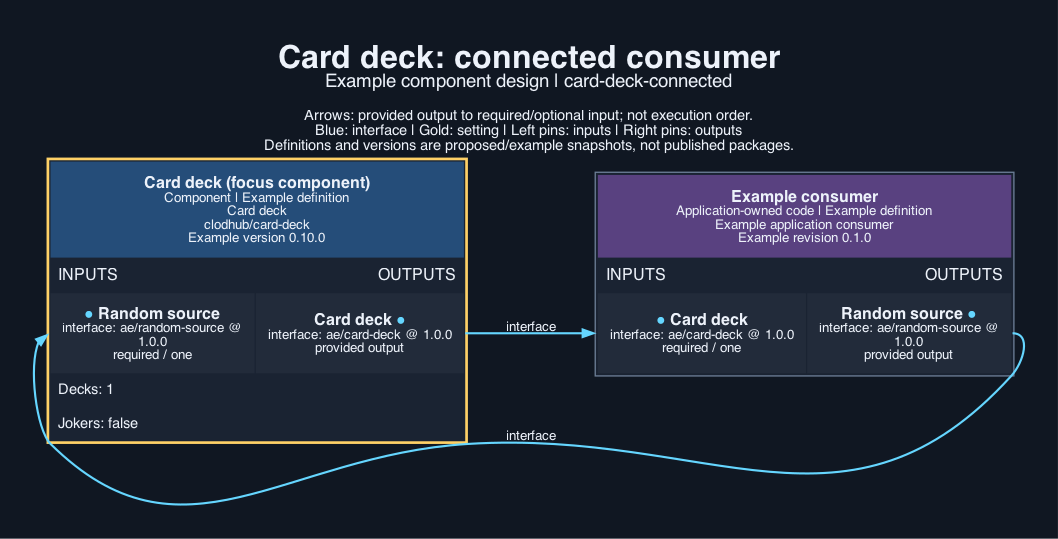
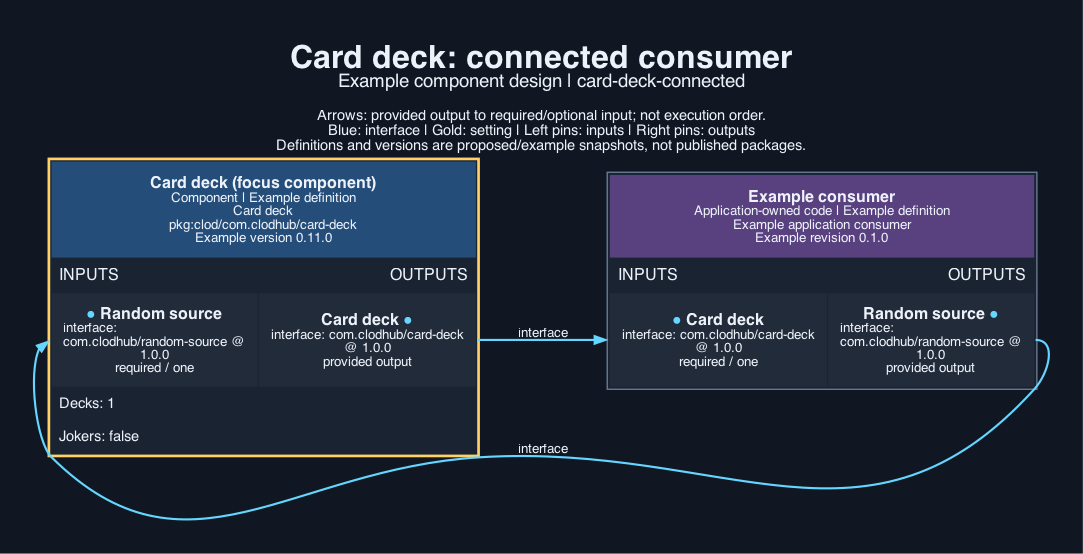
card-deck 0.11.0: package URL names, clod, com.clodhub interface types and Kotlin packages; setting defaults as JSON values

diff --git a/implementation/android/src/main/java/com/clodhub/deck/CardCode.kt b/implementation/android/src/main/java/com/clodhub/deck/CardCode.kt
@@ -1,4 +1,4 @@
-package ae.deck
+package com.clodhub.deck
 
 // Card facts for a client that draws cards. Data only; faces and pip layouts belong to card-graphics.
 // A code is two characters: rank 2-9, T, J, Q, K, A then suit c, d, h, s. Jokers are "*r" and "*b".

diff --git a/tests/android/Main.kt b/tests/android/Main.kt
@@ -1,4 +1,4 @@
-import ae.deck.CardCode
+import com.clodhub.deck.CardCode
 import java.io.File
 
 // Minimal reader for the flat fixture: rows are lines of the form ["2c", true, 0, 0, false, null, "2", 9827].

diff --git a/SOURCE.md b/SOURCE.md
@@ -14,11 +14,11 @@ Reference revision: `19905b75dbea89fbfd424d67fe26c81aaed0e018`. Extraction sourc
 - `implementation/apple/Sources/CardCodes.swift` <- `ios/OurPoker/Sources/Cards.swift:3-10` (`suitGlyph`), `Cards.swift:12-15` (`rankText`), `Cards.swift:17-24` (`courtName`), `Cards.swift:71-72` and `Cards.swift:89` (code split into rank and suit, red test).
   - Kept: glyphs, court names, red rule. Generalised: the three private helpers and the parse become one public `CardCode` struct with a failable initialiser; the localised lookup `L("rank_...")` becomes an injected dictionary; jokers and `rankIndex`/`suitIndex` added.
   - Left behind: SwiftUI drawing, pip layout, card theme environment key (`card-graphics`).
-- `implementation/android/src/main/java/ae/deck/CardCode.kt` <- `android/app/src/main/java/app/ourapps/ourpoker/ui/Cards.kt:53-55` (`suitGlyph`), `Cards.kt:57-63` (`rankText`), `Cards.kt:65-67` (`courtName`), `Cards.kt:116-119` (code split, red test).
-  - Same generalisation as Apple; package `ae.deck`. Not compiled here (no kotlinc).
+- `implementation/android/src/main/java/com/clodhub/deck/CardCode.kt` <- `android/app/src/main/java/app/ourapps/ourpoker/ui/Cards.kt:53-55` (`suitGlyph`), `Cards.kt:57-63` (`rankText`), `Cards.kt:65-67` (`courtName`), `Cards.kt:116-119` (code split, red test).
+  - Same generalisation as Apple; package `com.clodhub.deck`. Not compiled here (no kotlinc).
   - Left behind: Compose drawing, colours, pip layout (`card-graphics`).
 - `tests/fixtures/cards.json`: new, shared by the web, Apple and Android tests (15 rows of codes, valid or not, with expected indexes, colour, court name, label and glyph code point).
 - `tests/web.test.ts`, `tests/apple/main.swift`, `tests/android/Main.kt`, `tests/native.py`: new. `native.py` follows `tests/native.py` in `clodhub/store-update`.
 - `cardCodes` (`generated-platform`): the `CardCodes` object poker-hand-ranking takes. `authoring/integration.test.ts`: new.
 - `examples/consumer.ts`: new; a hold'em style deal using only this component and an injected shuffler.
-- `interfaces/required-random-source.json`: a byte copy of fair-shuffle's `ae/random-source` document; card-deck calls only `RandomSource.shuffle` (the `Shuffler` schema of `interfaces/card-deck.json`).
+- `interfaces/required-random-source.json`: a byte copy of fair-shuffle's `com.clodhub/random-source` document; card-deck calls only `RandomSource.shuffle` (the `Shuffler` schema of `interfaces/card-deck.json`).

diff --git a/CONTRACT.md b/CONTRACT.md
@@ -9,12 +9,12 @@ Facilities: `card-deck` (Create, shuffle, deal and burn cards; card codes, colou
 The installer collects two settings. `decks` is how many 52-card packs to combine (whole number, 1 to 8; default 1). `jokers` adds two jokers per pack when true (default false).
 
 - `decks` (integer; optional; default `1`)
-- `jokers` (boolean; optional; default `False`)
+- `jokers` (boolean; optional; default `false`)
 
 ## Artefacts and dependencies
 `component.json` maps every `implementation/` source into `components/card-deck/`:
 
-- `implementation/android/src/main/java/ae/deck/CardCode.kt` -> `components/card-deck/android/src/main/java/ae/deck/CardCode.kt`
+- `implementation/android/src/main/java/com/clodhub/deck/CardCode.kt` -> `components/card-deck/android/src/main/java/com/clodhub/deck/CardCode.kt`
 - `implementation/apple/Sources/CardCodes.swift` -> `components/card-deck/apple/Sources/CardCodes.swift`
 - `implementation/server/deck.ts` -> `components/card-deck/server/deck.ts`
 - `implementation/web/cards.ts` -> `components/card-deck/web/cards.ts`
@@ -23,10 +23,10 @@ Dependencies: none.
 `tools.lock.json` pins verification tools: node 26.5, python3 3.12, swiftc 6.4, kotlinc 2.2, java 26.0. Licence: `Apache-2.0` (`LICENCE`, `NOTICE`).
 
 ## Provided interfaces
-- `interfaces/card-deck.json` defines `card-deck` (ae/card-deck) version 1.0.0: an OpenRPC 1.3.2 document, one method per function (a member of a created object is `<Type>.<member>`), with parameter, result and data types as JSON Schema 2020-12 (`components.schemas`) and thrown errors under `errors`.
+- `interfaces/card-deck.json` defines `card-deck` (com.clodhub/card-deck) version 1.0.0: an OpenRPC 1.3.2 document, one method per function (a member of a created object is `<Type>.<member>`), with parameter, result and data types as JSON Schema 2020-12 (`components.schemas`) and thrown errors under `errors`.
 
 ## Required interfaces
-- `random-source` (ae/random-source) version 1.0.0, supplied by the recipe or application.
+- `random-source` (com.clodhub/random-source) version 1.0.0, supplied by the recipe or application.
 
 `interfaces/required-random-source.json` is a byte copy of the providing component's document.
 

diff --git a/INSTRUCTIONS.md b/INSTRUCTIONS.md
@@ -3,12 +3,12 @@
 ## For the agent
 Select this component for any game that deals playing cards. Set `decks` and `jokers` from the recipe's answers (hold'em: 1 deck, no jokers). Connect a `random-source` (fair-shuffle) to its required `random-source` port. Include the web, Apple and Android client files only when the matching client targets are selected.
 
-- Select package `clodhub/card-deck` version `0.10.0`.
+- Select package `pkg:clod/com.clodhub/card-deck` version `0.11.0`.
 - Settings to configure:
   - `decks` (integer; optional; default `1`)
-  - `jokers` (boolean; optional; default `False`)
-- Connect the provided `card-deck` (ae/card-deck 1.0.0) to the consumer that needs it.
-- Supply `random-source` (ae/random-source 1.0.0) from the component that provides it.
+  - `jokers` (boolean; optional; default `false`)
+- Connect the provided `card-deck` (com.clodhub/card-deck 1.0.0) to the consumer that needs it.
+- Supply `random-source` (com.clodhub/random-source 1.0.0) from the component that provides it.
 - No accounts or keys are needed.
 
 ## For the developer
@@ -20,4 +20,4 @@ From the component directory:
 - `node --test tests/web.test.ts` (web, required-local; tools: node 26.5)
 - `python3 tests/native.py apple` (apple, platform; tools: python3 3.12, swiftc 6.4)
 - `python3 tests/native.py android` (android, platform; tools: python3 3.12, kotlinc 2.2, java 26.0)
-- `python3 -m aepm review <digest> --store STORE --policy POLICY --trusted --allow-network` checks an archive fetched with `python3 -m aepm fetch clodhub/card-deck@VERSION --store STORE --from https://clodhub.com` and runs its suites.
+- `python3 -m clod review <digest> --store STORE --policy POLICY --trusted --allow-network` checks an archive fetched with `python3 -m clod fetch card-deck@VERSION --store STORE --from https://clodhub.com` and runs its suites.

diff --git a/visual/output/description.md b/visual/output/description.md
@@ -1,3 +1,3 @@
 # Card deck
 
-The card-deck component at version 0.10.0 provides ae/card-deck version 1.0.0 to an illustrative application consumer, which in turn supplies ae/random-source version 1.0.0. The 2 arrows each run from a named output to a required input of the same type and version. Setting values shown are placeholders and secrets appear only as references.
+The card-deck component at version 0.11.0 provides com.clodhub/card-deck version 1.0.0 to an illustrative application consumer, which in turn supplies com.clodhub/random-source version 1.0.0. The 2 arrows each run from a named output to a required input of the same type and version. Setting values shown are placeholders and secrets appear only as references.

diff --git a/.opencode/knowledge/00-index.md b/.opencode/knowledge/00-index.md
@@ -1,5 +1,5 @@
 # card-deck ownership
 
 Repository: https://github.com/clodhub/card-deck.git.
-Current code: `implementation/android/src/main/java/ae/deck/CardCode.kt`, `implementation/apple/Sources/CardCodes.swift`, `implementation/server/deck.ts`, `implementation/web/cards.ts`.
+Current code: `implementation/android/src/main/java/com/clodhub/deck/CardCode.kt`, `implementation/apple/Sources/CardCodes.swift`, `implementation/server/deck.ts`, `implementation/web/cards.ts`.
 `component.json`, `tools.lock.json` and `visual/` are generated from `authoring/spec.json`; edit the spec, not the generated files. `CONTRACT.md`, `INSTRUCTIONS.md` and `SOURCE.md` are hand-written and kept on regeneration.

diff --git a/.opencode/knowledge/workflow.md b/.opencode/knowledge/workflow.md
@@ -2,5 +2,5 @@
 
 Repository: `clodhub/card-deck`. Licence: `Apache-2.0` (`LICENCE`, `NOTICE`).
 Suite commands (from the package root): `node --test tests/web.test.ts`; `python3 tests/native.py apple`; `python3 tests/native.py android`.
-Review a fetched archive: `python3 -m aepm review <digest> --store STORE --policy POLICY --trusted --allow-network`.
+Review a fetched archive: `python3 -m clod review <digest> --store STORE --policy POLICY --trusted --allow-network`.
 Always run Python with `-B`; never write bytecode into the repository.
